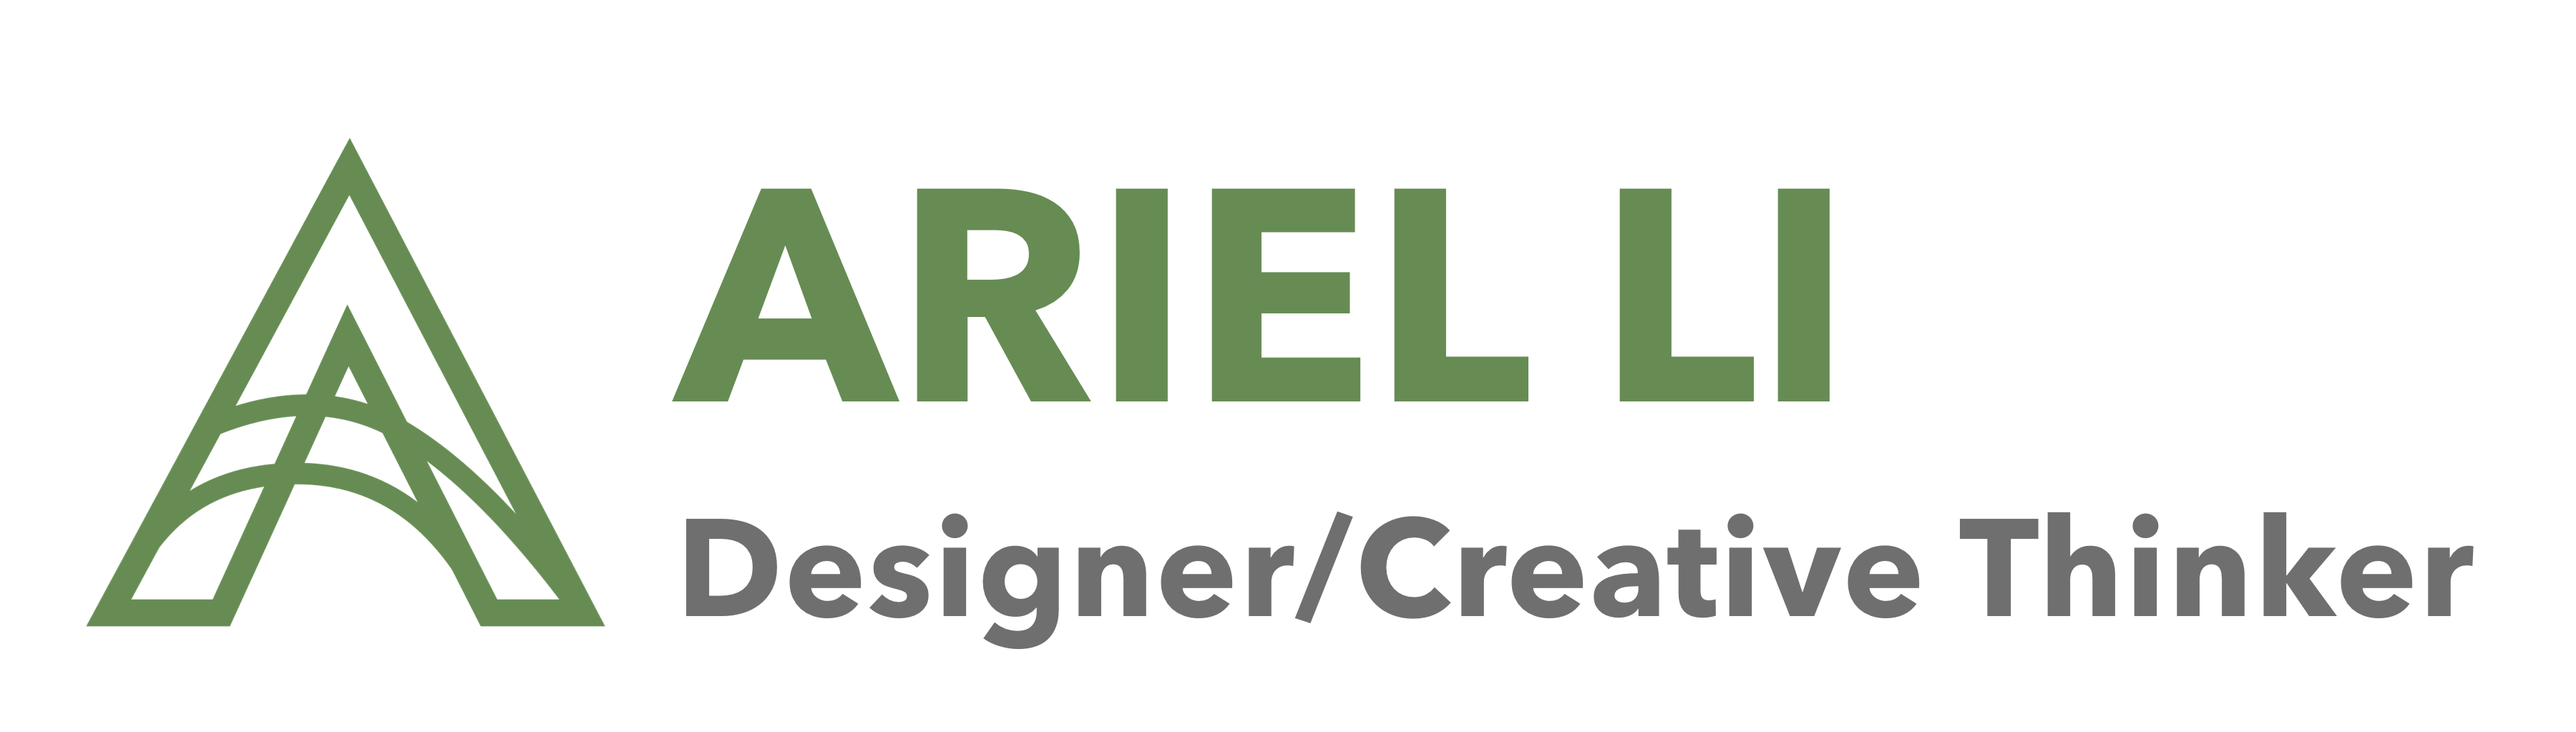
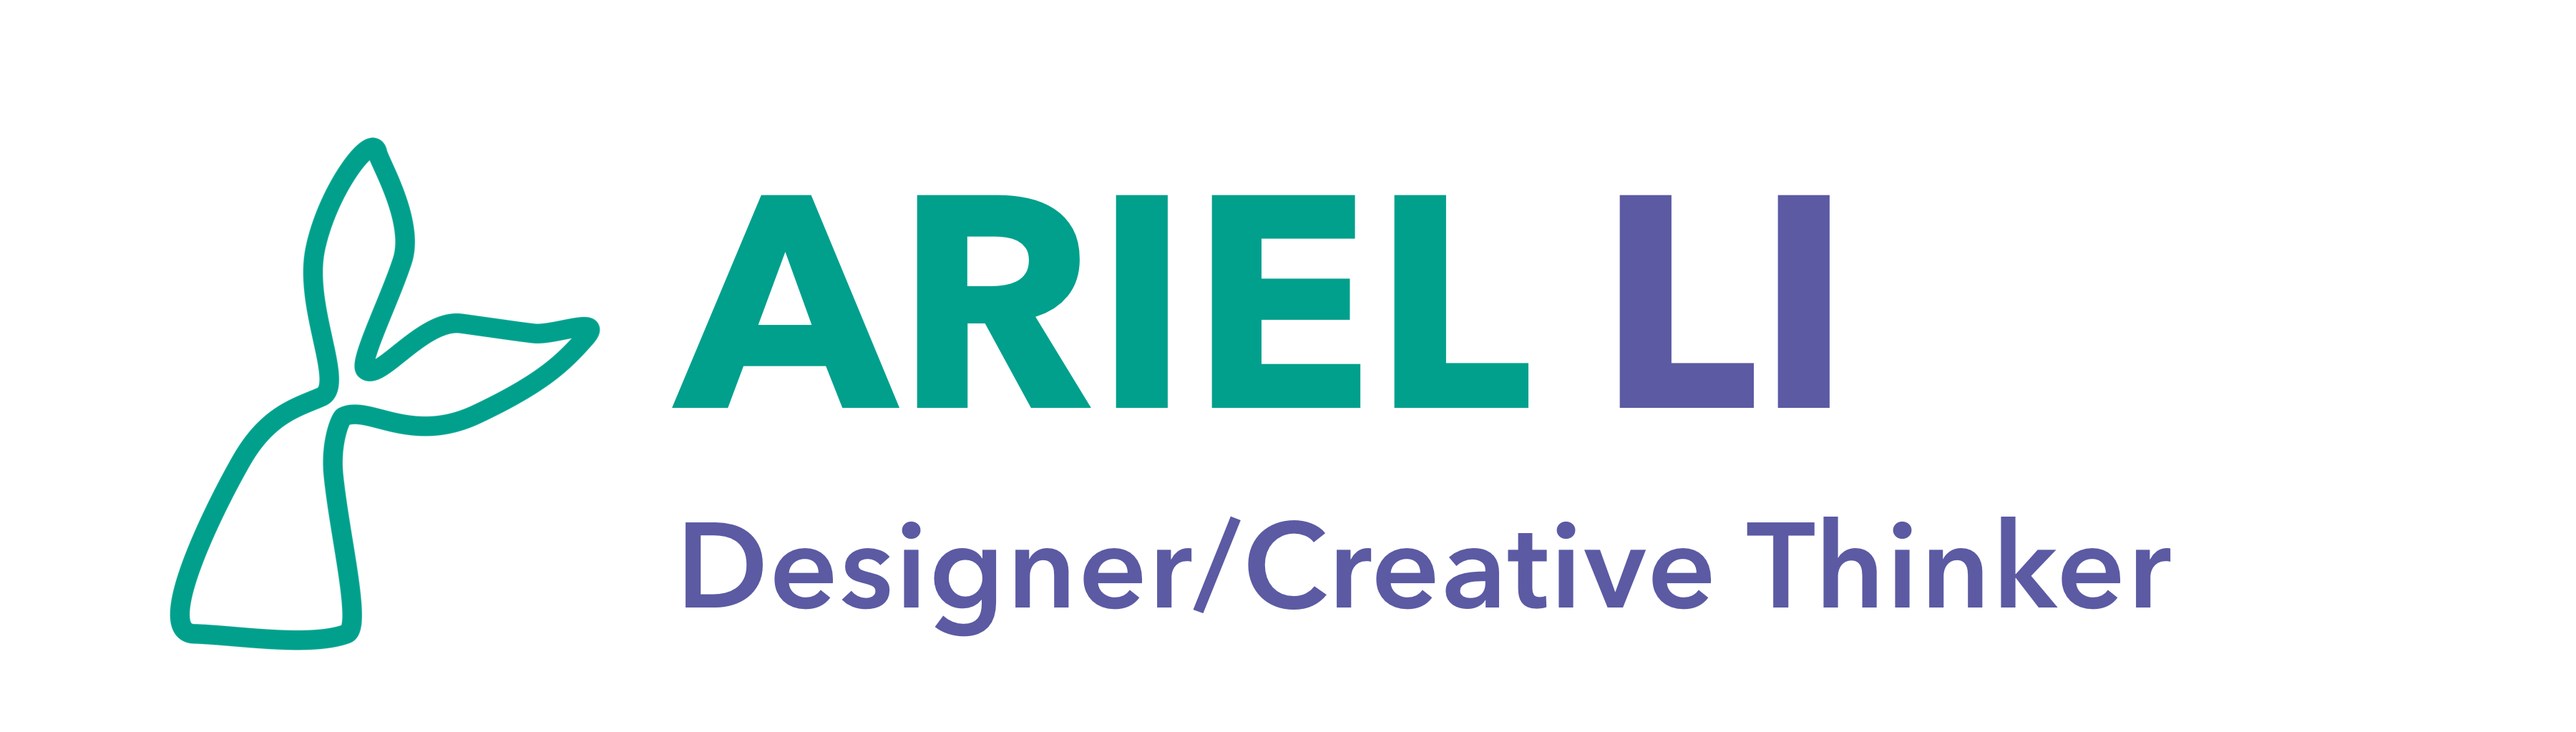
update

Changed region(s): [[0.0311, 0.1818, 0.9644, 0.9091], [0.6222, 0.2424, 0.7156, 0.5758]]

diff --git a/css/responsive.css b/css/responsive.css
@@ -15,7 +15,7 @@
   #download-resume {
     text-align: center;
     font-size: 2rem;
-    color: #668C53;
+    color: #00A08C;
     font-weight: 700;
 
   }
@@ -30,7 +30,7 @@
     color: #6d6d6d;
   }
   .navbar-light .navbar-nav .active>.nav-link {
-    color: #668C53;
+    color: #00A08C;
   }
   #home-img {
     padding-top: 4rem;
@@ -81,7 +81,7 @@
     margin-top: 2rem;
   }
   .footer {
-    color: #668C53;
+    color: #00A08C;
     font-size: 1rem;
     text-align: center;
     padding-bottom: 2rem;
@@ -193,7 +193,7 @@
     color: #6d6d6d;
   }
   .navbar-light .navbar-nav .active>.nav-link {
-    color: #668C53;
+    color: #00A08C;
   }
   #home-img {
     padding-top: 4rem;
@@ -248,12 +248,12 @@
   #download-resume {
     text-align: center;
     font-size: 2rem;
-    color: #668C53;
+    color: #00A08C;
     font-weight: 700;
 
   }
   .footer {
-    color: #668C53;
+    color: #00A08C;
     font-size: 1rem;
     text-align: center;
     padding-bottom: 2rem;
@@ -365,7 +365,7 @@
     color: #6d6d6d;
   }
   .navbar-light .navbar-nav .active>.nav-link {
-    color: #668C53;
+    color: #00A08C;
   }
   #home-img {
     padding-top: 4rem;
@@ -407,7 +407,7 @@
     margin-top: 2rem;
   }
   .footer {
-    color: #668C53;
+    color: #00A08C;
     font-size: 1rem;
     text-align: center;
     padding-bottom: 2rem;
@@ -427,7 +427,7 @@
   #download-resume {
     text-align: center;
     font-size: 2rem;
-    color: #668C53;
+    color: #00A08C;
     font-weight: 700;
 
   }
@@ -525,7 +525,7 @@
       #download-resume {
         text-align: center;
         font-size: 2rem;
-        color: #668C53;
+        color: #00A08C;
         font-weight: 700;
 
       }
@@ -544,10 +544,10 @@
         color: #898989;
       }
       .navbar-light .navbar-nav .nav-link:hover {
-        color: #668C53;
+        color: #00A08C;
       }
       .navbar-light .navbar-nav .active>.nav-link {
-        color: #668C53;
+        color: #00A08C;
       }
       #home-img {
         padding-top: 4rem;
@@ -579,12 +579,12 @@
           outline: none;
       }
       .btn-primary {
-        background-color: #668C53;
-        border: #668C53;
+        background-color: #00A08C;
+        border: #00A08C;
       }
       .btn-primary:hover {
-        background-color: #668C53;
-        border: #668C53;
+        background-color: #00A08C;
+        border: #00A08C;
       }
       .big-white {
         font-size: 3rem;
@@ -598,7 +598,7 @@
         margin-top: 2rem;
       }
       .footer {
-        color: #668C53;
+        color: #00A08C;
         font-size: 1rem;
         text-align: center;
         padding-bottom: 2rem;
